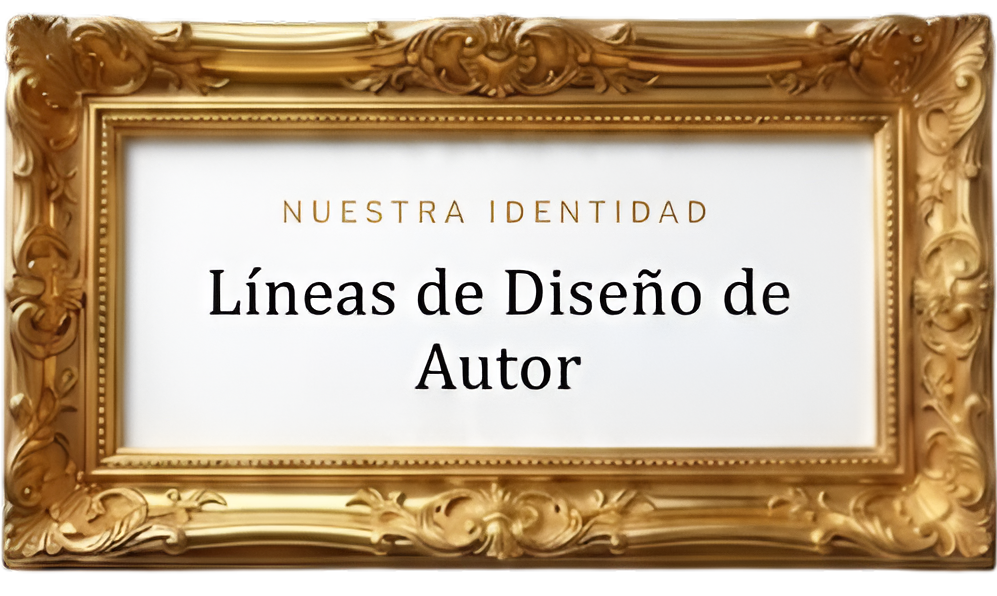
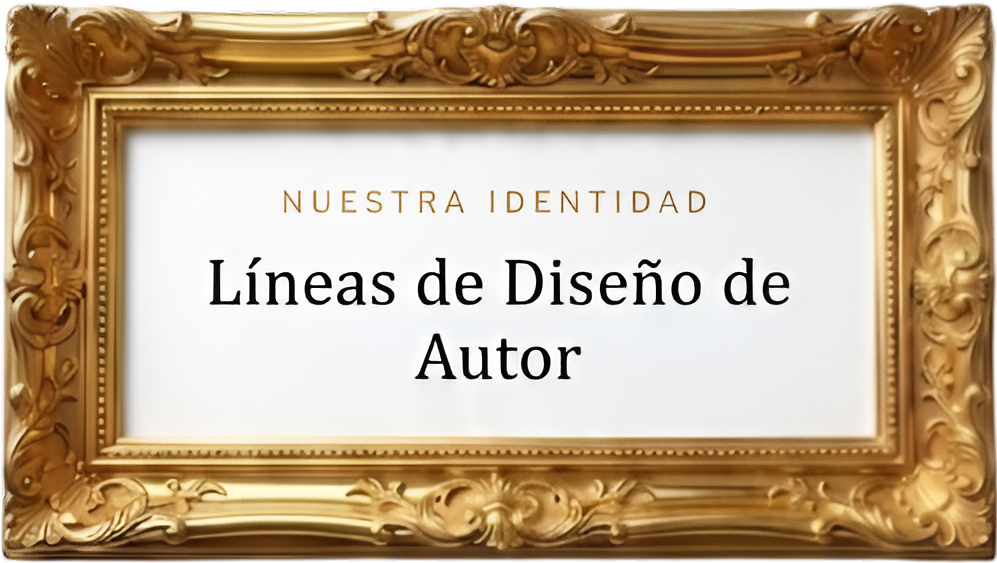
spaces updated on home screen

diff --git a/src/pages/Home.module.css b/src/pages/Home.module.css
@@ -287,6 +287,17 @@
   box-sizing: border-box;
 }
 
+.stylesIntroHeaderScd {
+  text-align: center;
+  max-width: 650px;
+  width: 100%;
+  margin: 0 auto 5rem auto;
+  display: flex;
+  justify-content: center;
+  align-items: center;
+  box-sizing: border-box;
+}
+
 .introHeaderImage {
   max-width: 100%;
   height: auto;
@@ -835,12 +846,8 @@
   }
 }
 
-/* ==========================================
-   9. RESPONSIVE / MEDIA QUERIES (A PARTIR DE 768px)
-   ========================================== */
 
 @media (max-width: 768px) {
-
   .videoSection,
   .stylesSectionWrapper,
   .moreStylesSection,
@@ -854,24 +861,48 @@
     box-sizing: border-box;
   }
 
+  .videoSection,
+  .stylesSectionWrapper,
+  .moreStylesSection,
+  .featuredProjectsSection {
+    margin-top: 0rem !important;
+    margin-bottom: 0rem !important;
+  }
+
+  .stylesIntroHeader {
+    width: 100% !important;
+    max-width: 100% !important;
+    margin-bottom: 1rem !important;
+    padding: 0 !important;
+  }
+
+  .stylesIntroHeaderScd {
+    width: 100% !important;
+    max-width: 100% !important;
+    margin-top: 1.5rem !important;      
+    margin-bottom: 1.5rem !important;   
+    padding: 0 !important;
+  }
+
+  .introHeaderImage {
+    width: 100% !important;
+    max-width: 100% !important;
+    height: auto !important;
+    margin-top: -1.5rem !important;
+    margin-bottom: 0rem !important;
+  }
+
+  .moreStylesSection {
+    padding: 2.5rem 1.25rem !important;
+    margin-top: 1.5rem !important;
+    margin-bottom: 2rem !important;
+  }
+
   .styleFloatingCard,
   .featuredHeader,
   .videoContent {
     width: 100% !important;
     box-sizing: border-box;
-  }
-
-  .videoSection,
-  .stylesSectionWrapper,
-  .moreStylesSection,
-  .featuredProjectsSection {
-    margin-top: 1.5rem !important;
-    margin-bottom: 1.5rem !important;
-  }
-
-  .stylesIntroHeader {
-    margin-bottom: 1.2rem !important;
-    padding: 0;
   }
 
   .styleFloatingCard {
@@ -880,7 +911,6 @@
 
   .videoContent,
   .styleFloatingCard,
-  .moreStylesSection,
   .featuredHeader {
     padding: 1.25rem 1rem !important;
   }

diff --git a/src/pages/home.tsx b/src/pages/home.tsx
@@ -338,10 +338,12 @@ function Home() {
 
       {/* 4. PROYECTOS DESTACADOS */}
       <section className={styles.featuredProjectsSection}>
-        <div className={styles.featuredHeader}>
-          <span>{t.featuredLabel}</span>
-          <h2>{t.featuredTitle}</h2>
-          <p>{t.featuredSubtitle}</p>
+        <div className={styles.stylesIntroHeaderScd}>
+          <img 
+            src="/marco2.png" 
+            alt={t.featuredTitle} 
+            className={styles.introHeaderImage}
+          />
         </div>
 
         <div className={styles.projectsGrid}>
